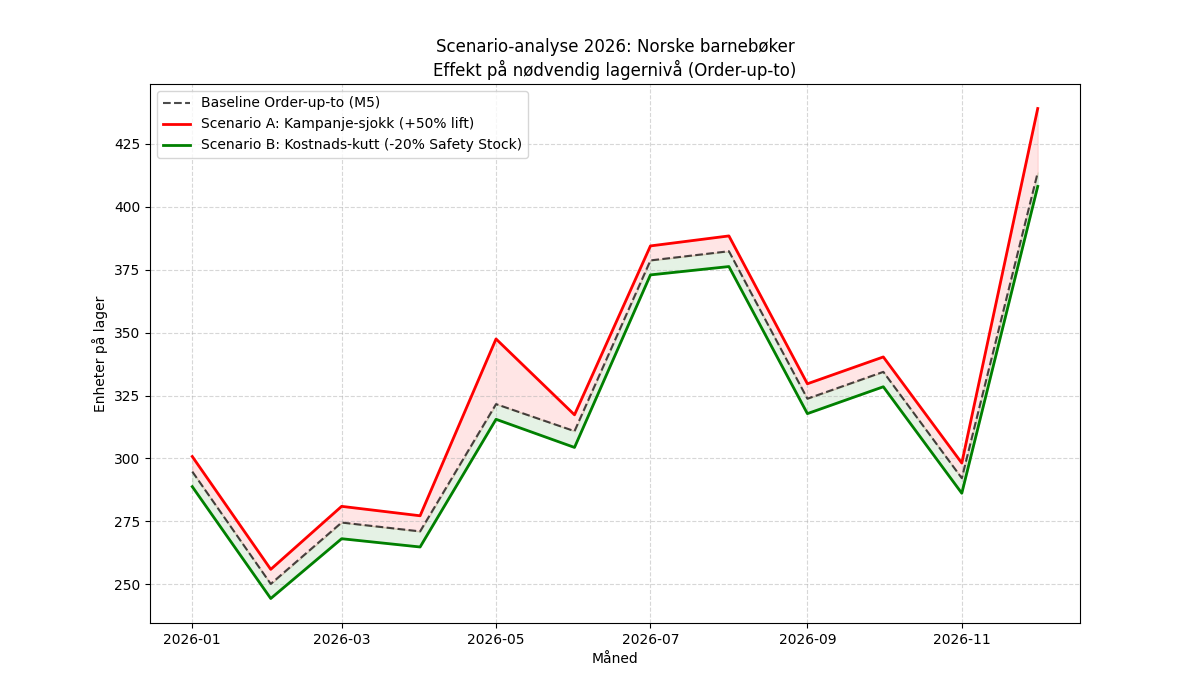
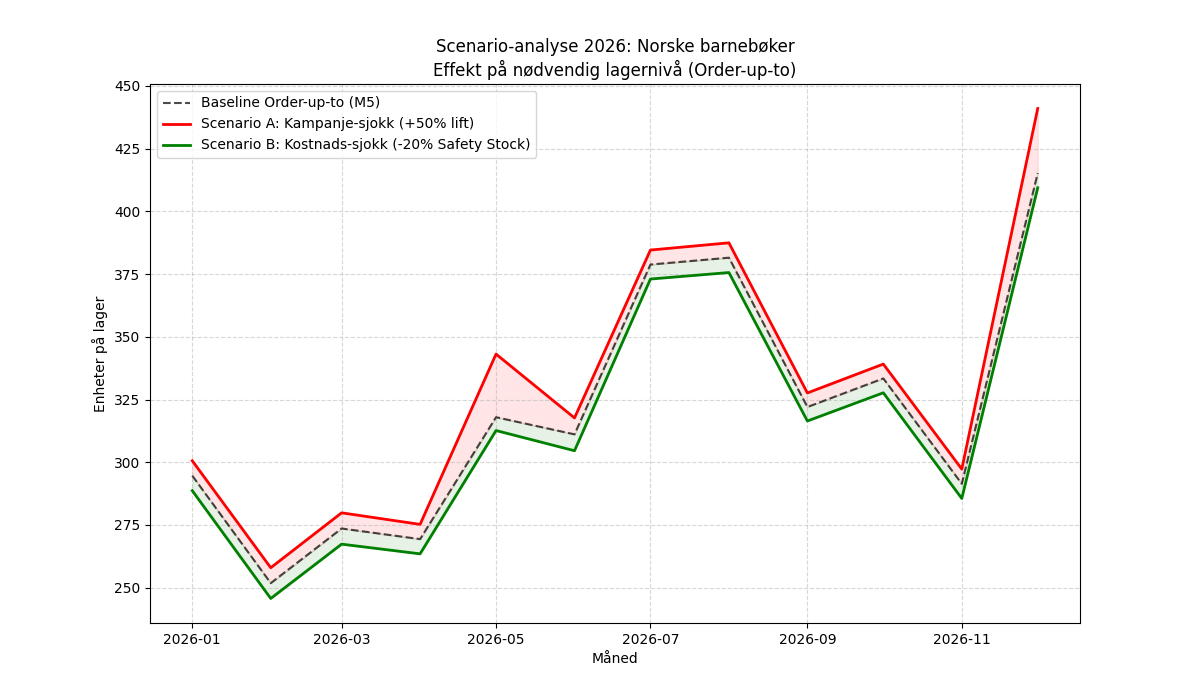
3.12 ferdig med claude

diff --git a/004 data/python_skript/scenario_analysis_3_12.py b/004 data/python_skript/scenario_analysis_3_12.py
@@ -110,7 +110,7 @@ for cat in categories:
     plt.figure(figsize=(12, 7))
     plt.plot(f26['ds'], f26['out_base'], 'k--', label='Baseline Order-up-to (M5)', alpha=0.7)
     plt.plot(f26['ds'], f26['out_shock'], 'r-', label='Scenario A: Kampanje-sjokk (+50% lift)', linewidth=2)
-    plt.plot(f26['ds'], f26['out_cost'], 'g-', label='Scenario B: Kostnads-kutt (-20% Safety Stock)', linewidth=2)
+    plt.plot(f26['ds'], f26['out_cost'], 'g-', label='Scenario B: Kostnads-sjokk (-20% Safety Stock)', linewidth=2)
     
     plt.fill_between(f26['ds'], f26['out_base'], f26['out_shock'], color='red', alpha=0.1)
     plt.fill_between(f26['ds'], f26['out_cost'], f26['out_base'], color='green', alpha=0.1)

diff --git a/012 fase 2 - plan/reviews/review_aktivitet_3.12_2026-04-13.md b/012 fase 2 - plan/reviews/review_aktivitet_3.12_2026-04-13.md
@@ -1,15 +1,16 @@
 # Review: Aktivitet 3.12 Scenario-analyse 2026
-**Dato:** 13. april 2026
+**Dato:** 13. april 2026 (oppdatert 20. april 2026)
 **Status:** Godkjent
 
 ### 1. Sammendrag
-Gjennomgangen dekker scenario-analysen for 2026, som simulerer effekten av kampanje-sjokk og kostnads-sjokk på lagerbehovet for tre bokkategorier. Relevante filer befinner seg i mappen `006 analysis/milestones/M5 - Kvantitativ analyse/3.12 scenario-analyse/`.
+Gjennomgangen dekker scenario-analysen for 2026, som simulerer effekten av kampanje-sjokk og kostnads-sjokk på lagerbehovet for tre bokkategorier. Relevante filer befinner seg i mappen `006 analysis/milestones/M5 - Kvantitativ analyse/3.12 scenario-analyse/`, med kildeskript `004 data/python_skript/scenario_analysis_3_12.py` og presentasjon i `005 report/rapport.md` seksjon 8.5.
 
 ### 2. Styrker
 *   **Overholdelse av AGENTS.md:** Rapporten følger de spesifikke formateringskravene for figurer (midtstilt `div`, `width: 70%`, og kursiv figurtekst).
 *   **Automatiserte resultater:** Bruken av Python-skript for å generere både data, figurer og selve Markdown-rapporten sikrer konsistens mellom analyse og dokumentasjon.
 *   **Tydelig metodikk:** Scenariene er godt definert med klare parametere (f.eks. +50% kampanjeløft, +/- 20% sikkerhetslager).
 *   **God visualisering:** Plottene viser tydelig avviket fra baseline for begge scenarier, noe som gjør det lett å tolke risiko og behov.
+*   **Konsistent baseline med 3.11:** Prophet-konfigurasjonen og sigma-estimeringen (yhat_upper − yhat) / 1.645 er identisk med prognoseskriptet i 3.11, slik at baseline-Order_Up_To er sammenlignbar på tvers av aktivitetene.
 
 ### 3. Utbedringer utført (13.04.2026)
 Følgende punkter fra den opprinnelige reviewen er utbedret:
@@ -18,5 +19,9 @@ Følgende punkter fra den opprinnelige reviewen er utbedret:
 *   **Figurnummerering:** Lagt til inkrementelle figurnummer i figurteksten (Figur 1, 2, 3).
 *   **Konsistens i hovedrapport:** Oppdatert seksjon 8.5 i `005 report/rapport.md` med de nyeste tallene og riktig formatering.
 
-### 4. Konklusjon
-Aktivitet 3.12 er nå fullstendig og ferdigstilt i henhold til prosjektets standarder. Leveransen er klar for inkludering i den endelige rapporten, og status i `schedule.json` er bekreftet som "Fullført".
+### 4. Utbedringer utført (20.04.2026)
+*   **Plot-legenden harmonisert:** Skriptet brukte fortsatt "Scenario B: Kostnads-kutt" i `plt.plot(...)`, mens tekst og tabeller bruker "Kostnads-sjokk". Endret til "Scenario B: Kostnads-sjokk" i `scenario_analysis_3_12.py` og regenererte alle tre PNG-filer.
+*   **Tabell i rapport.md oppdatert:** Etter regenerering var Prophet-trekningen marginalt forskjellig (Engelsk fiksjon 359,7 → 360,3; Norsk krim −1,6 % → −1,5 %; Norske barnebøker 320,7 → 320,1, −1,9 % → −1,8 %). Tabellen i 8.5 er oppdatert tilsvarende slik at rapport, oppsummering og CSV samsvarer.
+
+### 5. Konklusjon
+Aktivitet 3.12 er fullstendig og ferdigstilt i henhold til prosjektets standarder. Leveransen er klar for inkludering i den endelige rapporten, og status i `schedule.json` er bekreftet som "Fullført".

diff --git a/006 analysis/milestones/M5 - Kvantitativ analyse/3.12 scenario-analyse/3.12_scenario_oppsummering.md b/006 analysis/milestones/M5 - Kvantitativ analyse/3.12 scenario-analyse/3.12_scenario_oppsummering.md
@@ -16,17 +16,17 @@ Dette dokumentet analyserer hvordan eksterne endringer i 2026 vil påvirke lager
 
 | Kategori          |   Baseline (Units) |   Kampanje-sjokk (Units) |   Kostnads-sjokk (Units) |
 |:------------------|-------------------:|-------------------------:|-------------------------:|
-| Engelsk fiksjon   |              359.7 |                    386.2 |                    344.5 |
-| Norsk krim        |              454   |                    465.7 |                    446.9 |
-| Norske barnebøker |              320.7 |                    330   |                    314.6 |
+| Engelsk fiksjon   |              360.3 |                    386.8 |                    345   |
+| Norsk krim        |              453.8 |                    465.5 |                    446.8 |
+| Norske barnebøker |              320.1 |                    329.3 |                    314.2 |
 
 ## Prosentvis endring vs Baseline
 
 | Kategori          |   Baseline (Units) |   Kampanje-sjokk (Units) |   Kostnads-sjokk (Units) |
 |:------------------|-------------------:|-------------------------:|-------------------------:|
 | Engelsk fiksjon   |                  0 |                      7.4 |                     -4.2 |
-| Norsk krim        |                  0 |                      2.6 |                     -1.6 |
-| Norske barnebøker |                  0 |                      2.9 |                     -1.9 |
+| Norsk krim        |                  0 |                      2.6 |                     -1.5 |
+| Norske barnebøker |                  0 |                      2.9 |                     -1.8 |
 
 ## Visualiseringer
 <div align="center">

diff --git a/005 report/rapport.md b/005 report/rapport.md
@@ -710,9 +710,9 @@ Tabellen nedenfor oppsummerer hvordan det gjennomsnittlige lagernivået (Order-u
 
 | Kategori | Baseline (Units) | Scenario A: Kampanje-sjokk | Scenario B: Kostnads-sjokk |
 | :--- | :---: | :---: | :---: |
-| **Engelsk fiksjon** | 359,7 | +7,4 % | -4,2 % |
-| **Norsk krim** | 454,0 | +2,6 % | -1,6 % |
-| **Norske barnebøker** | 320,7 | +2,9 % | -1,9 % |
+| **Engelsk fiksjon** | 360,3 | +7,4 % | -4,2 % |
+| **Norsk krim** | 453,8 | +2,6 % | -1,5 % |
+| **Norske barnebøker** | 320,1 | +2,9 % | -1,8 % |
 
 Baseline tilsvarer det gjennomsnittlige bestillingspunktet fra 8.4 (små avvik skyldes Prophets stokastiske trekning). Analysen viser at *Engelsk fiksjon* er mest sensitiv for kampanje-sjokk, med et behov for 7,4 % økning i lagernivået for å opprettholde servicegraden. For *Norsk krim* og *Norske barnebøker* er modellen svært robust, med under 3 % endring i nødvendig beholdning selv ved ekstreme utslag. Dette gir ARK Bokhandel trygghet for at de optimaliserte reglene fra 3.10 vil fungere tilfredsstillende også i et urolig marked.
 
